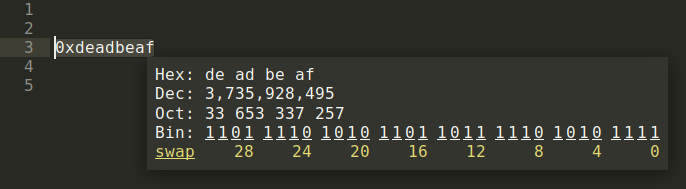
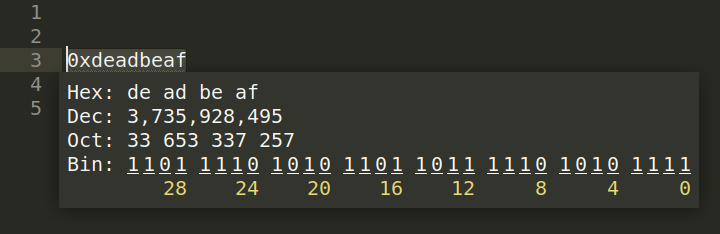
chore: update README

diff --git a/README.md b/README.md
@@ -1,28 +1,39 @@
-## Plugin that shows a number in 10, 16, 2 and 8 numeral systems for Sublime 3
+# Plugin that shows a number in 10, 16, 2 and 8 numeral systems for Sublime 3
 
-This plugin converts the selected number in decimal, hexadecimal, binary or octal numeral systems and displays a popup that shows the result in all four (dec, hex, bin and oct) numeral systems. There is three modes of popup window:
+This plugin converts the selected number in decimal, hexadecimal, binary or octal numeral systems and displays a popup that shows the result in all four (dec, hex, bin and oct) numeral systems.
 
-*basic*
+### Popup modes
+
+*basic* - has minimal information:
 
 ![popup example](screenshot_basic.png "popup basic example")
 
-*extended*
+*extended* - can convert numbers and supports additions:
 
 ![popup example](screenshot_extended.png "popup extended example")
 
-*tabled*
+*tabled* - backwards compatibility with @kalund ![plugin](https://github.com/kalund/HighlightNumber):
 
 ![popup example](screenshot_tabled.png "popup tabled example")
 
-### Installation
-Clone this repository or download zip archive into the Sublime 3 package directory (you can find it in menu option `Preferences -> Browse Packages...`). **Keep in mind** that plugin folder name should be `Display numbers`.
-
-### Additional functionality
+## Additional functionality
 * Pressing any digit of binary number makes it opposite of it's current value.
-* "swap" button swaps the bit positions what can be useful in some architectures.
 * Key binding is available for convert numeral system and swap endianness functions.
 
-### Settings
+### Addition: swap endianness
+Displays buttons to swap endianness interpreting number as halfword (16 bits), word (32 bits) or doubleword (64 bits).
+
+### Addition: interpret hex number as float
+Displays selected number in hex format as IEEE 754:
+* float (32 bits) if it is less or equal to 4 bytes length;
+* double (64 bits) if it is less or equal to 8 bytes length.
+
+### Addition: interpret number as size in bytes
+
+## Installation
+Clone this repository or download zip archive into the Sublime 3 package directory (you can find it in menu option `Preferences -> Browse Packages...`). **Keep in mind** that plugin folder name should be `Display numbers`.
+
+## Settings
 You can setup this plugin settings or key bindings which can be edited in menu option
 `Preferences -> Package Settings -> Display nums -> Settings` or `Key bindings` accordingly.
 Or you can define project specific settings by adding "**disnum.**" to the setting option, for example:
